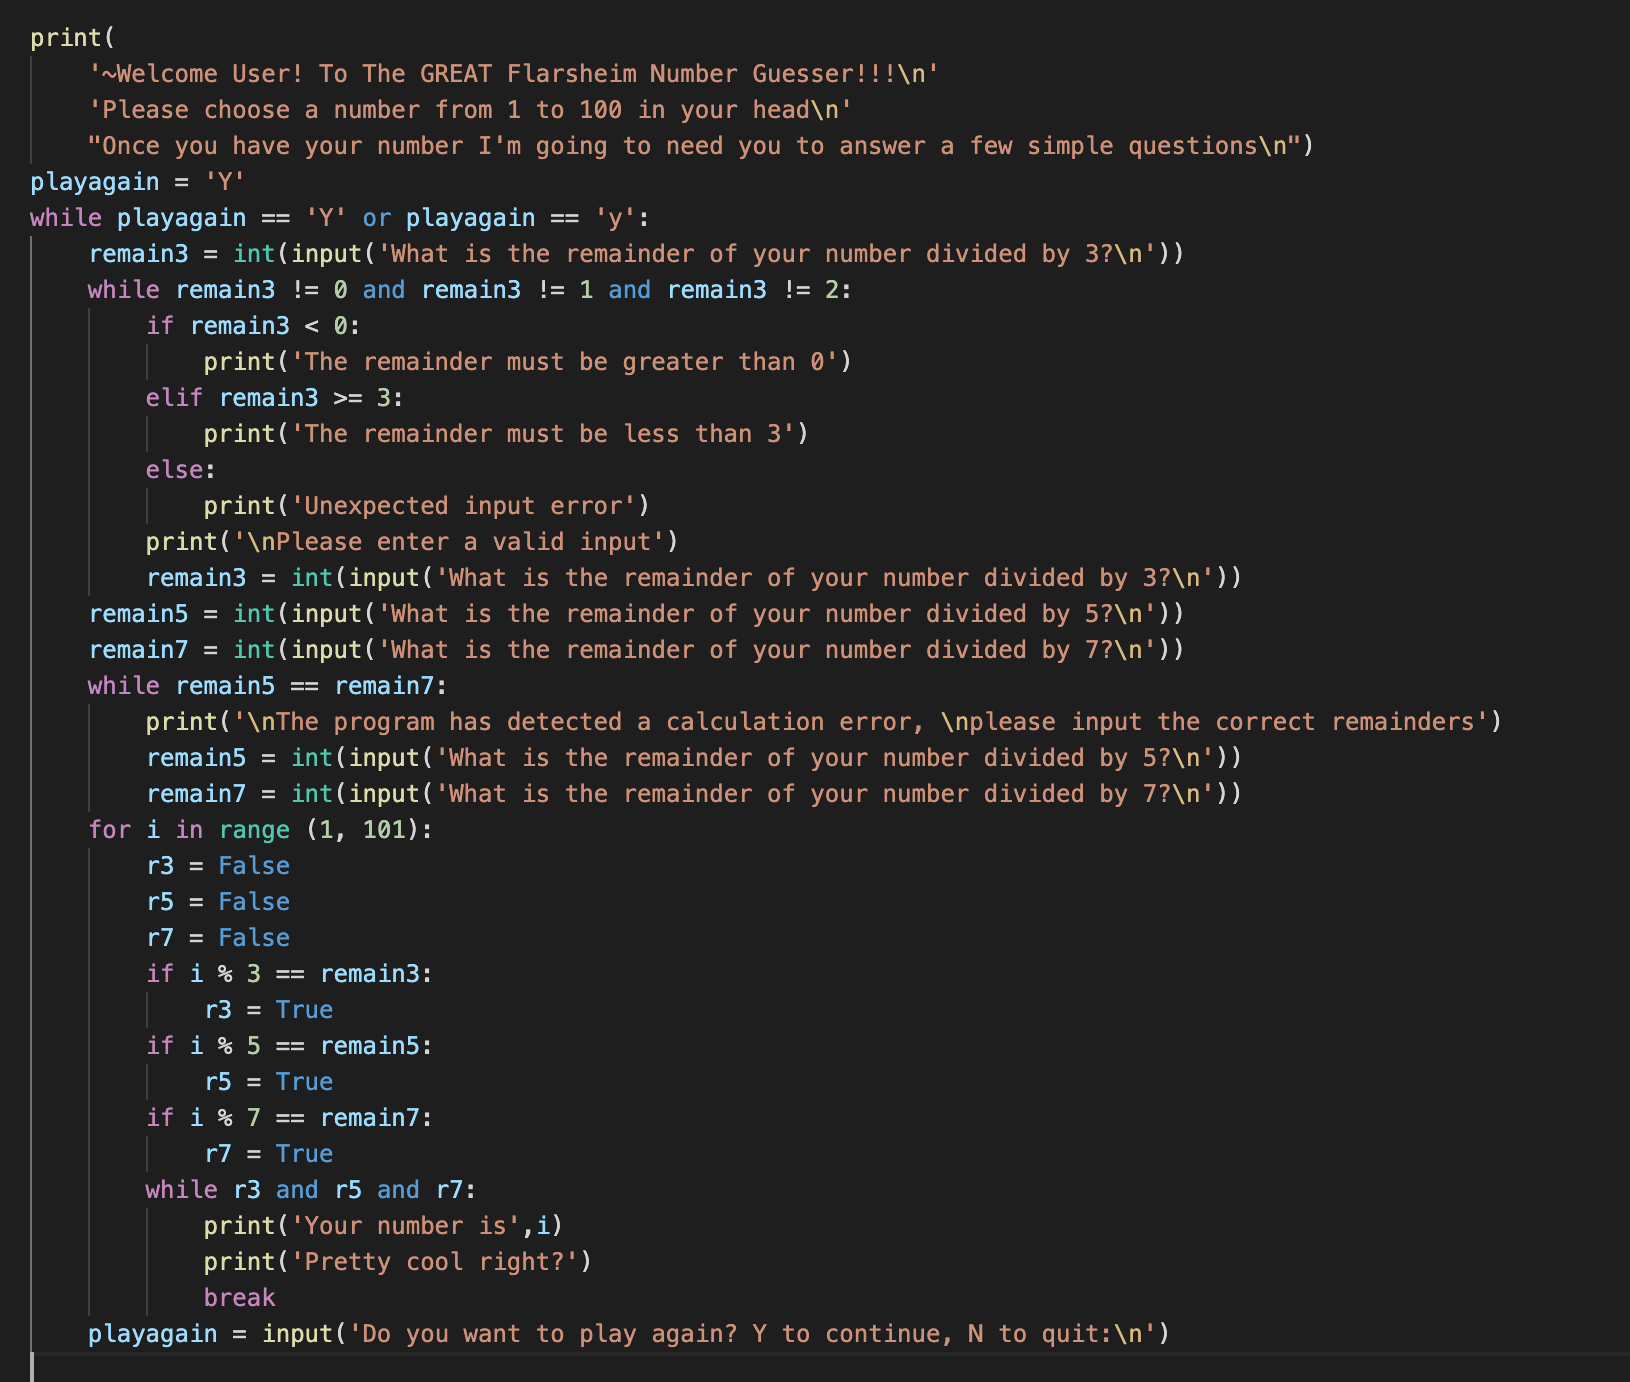
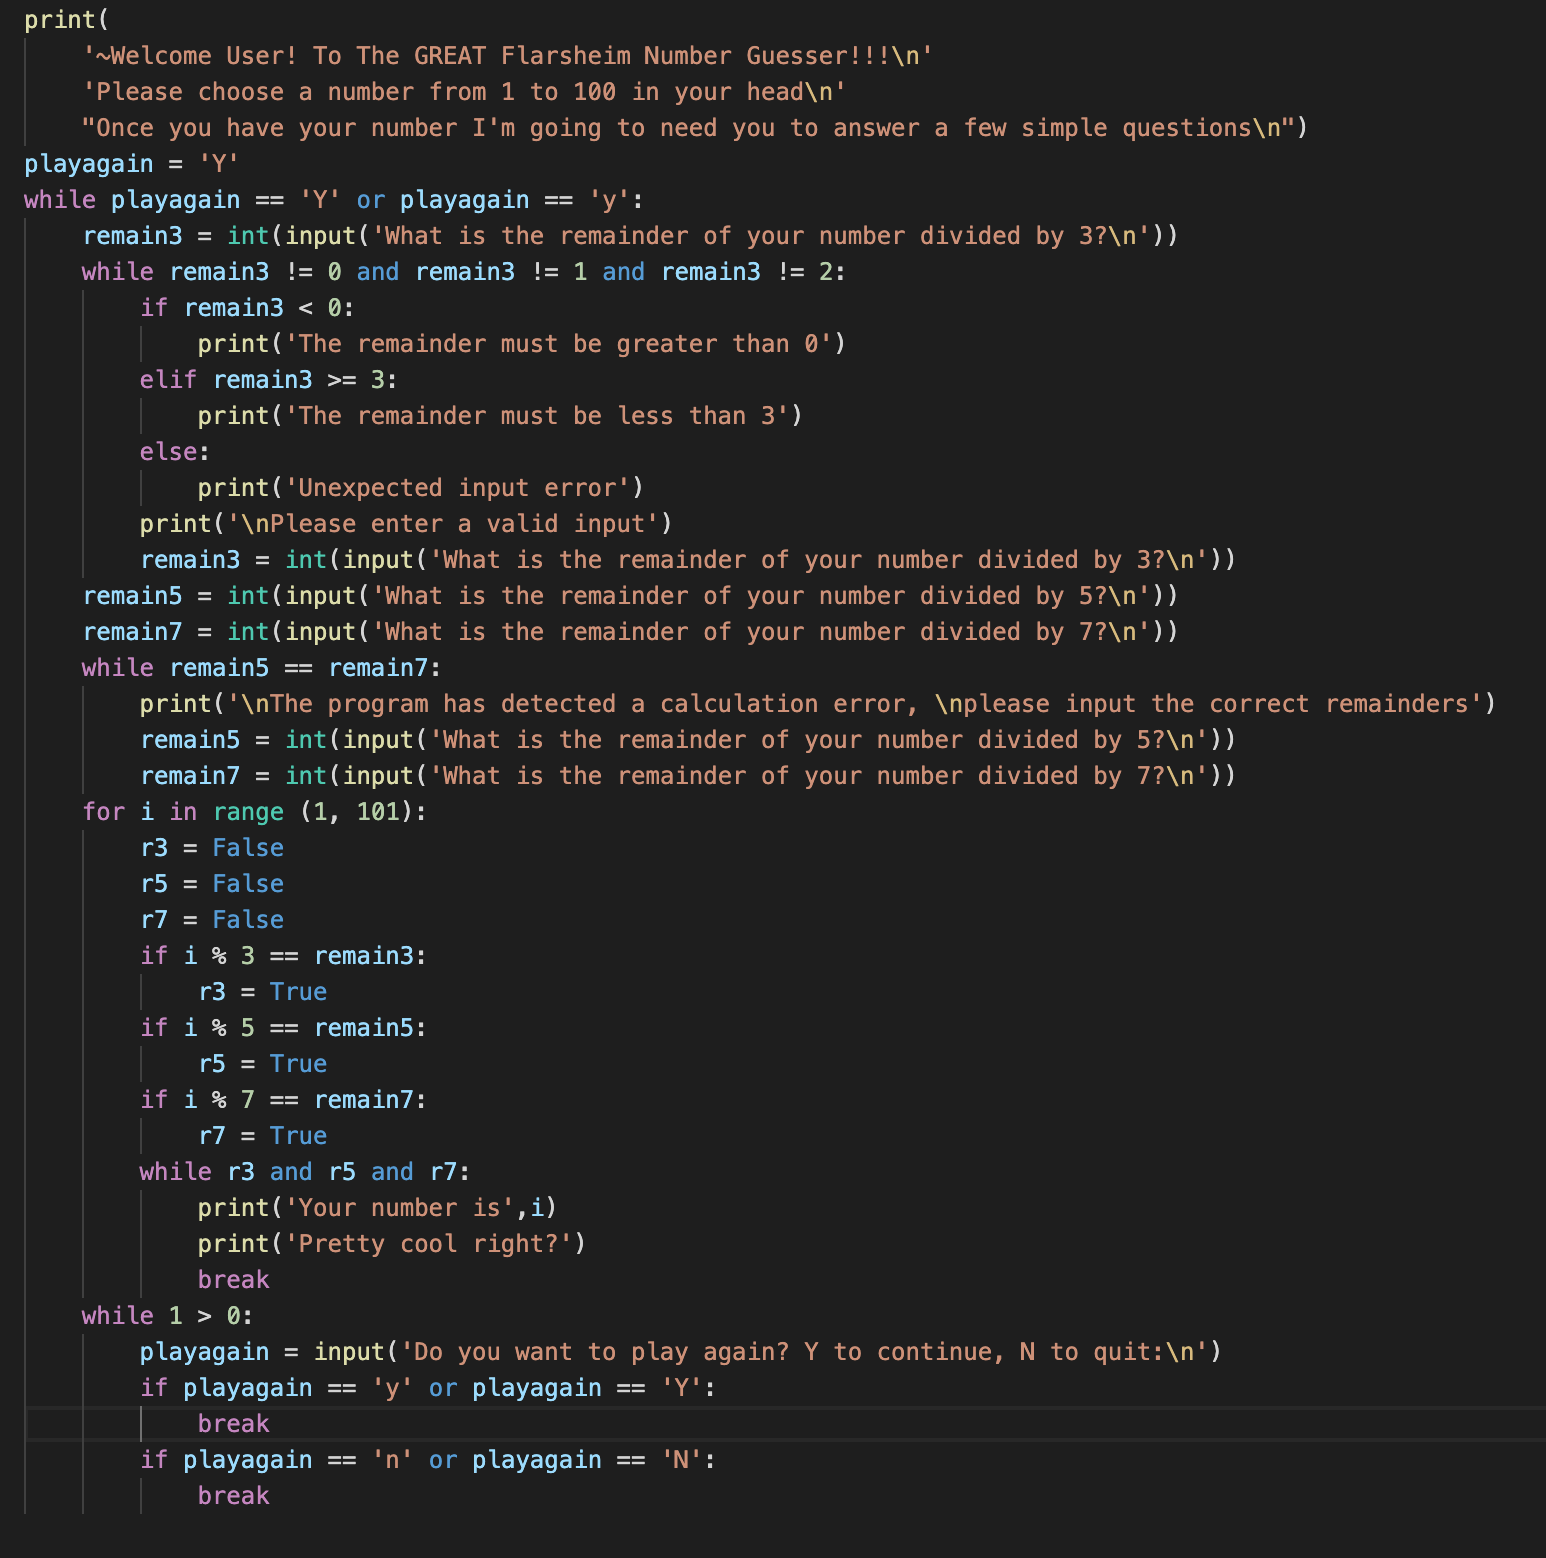
Lab 3 Exit Command Fix

diff --git a/Code/Assig_3/Lab_3.py b/Code/Assig_3/Lab_3.py
@@ -58,4 +58,9 @@ while playagain == 'Y' or playagain == 'y':
             print('Your number is',i)
             print('Pretty cool right?')
             break
-    playagain = input('Do you want to play again? Y to continue, N to quit:\n')
+    while 1 > 0:
+        playagain = input('Do you want to play again? Y to continue, N to quit:\n')
+        if playagain == 'y' or playagain == 'Y':
+            break
+        if playagain == 'n' or playagain == 'N':
+            break

diff --git a/README.md b/README.md
@@ -1,2 +1,5 @@
 # 101L_003L
   Basic Python Skills
+class : COMP-SCI 101L
+name : Charles Keys
+email : CKBMD@umsystem.edu / seakay747@gmail.com
